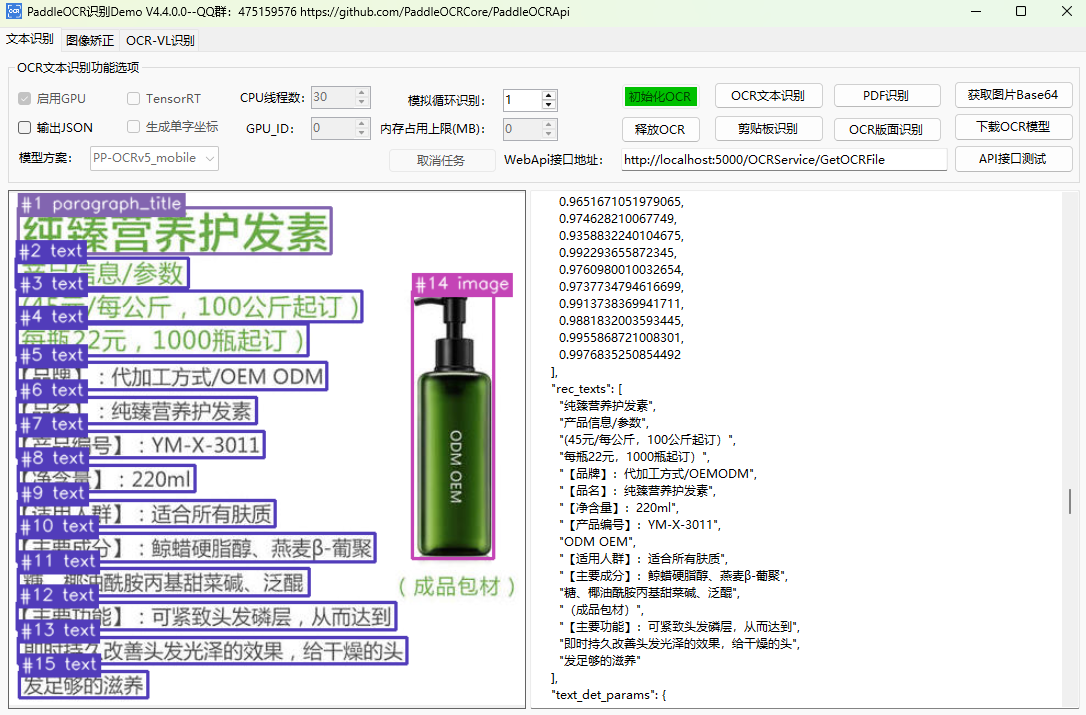
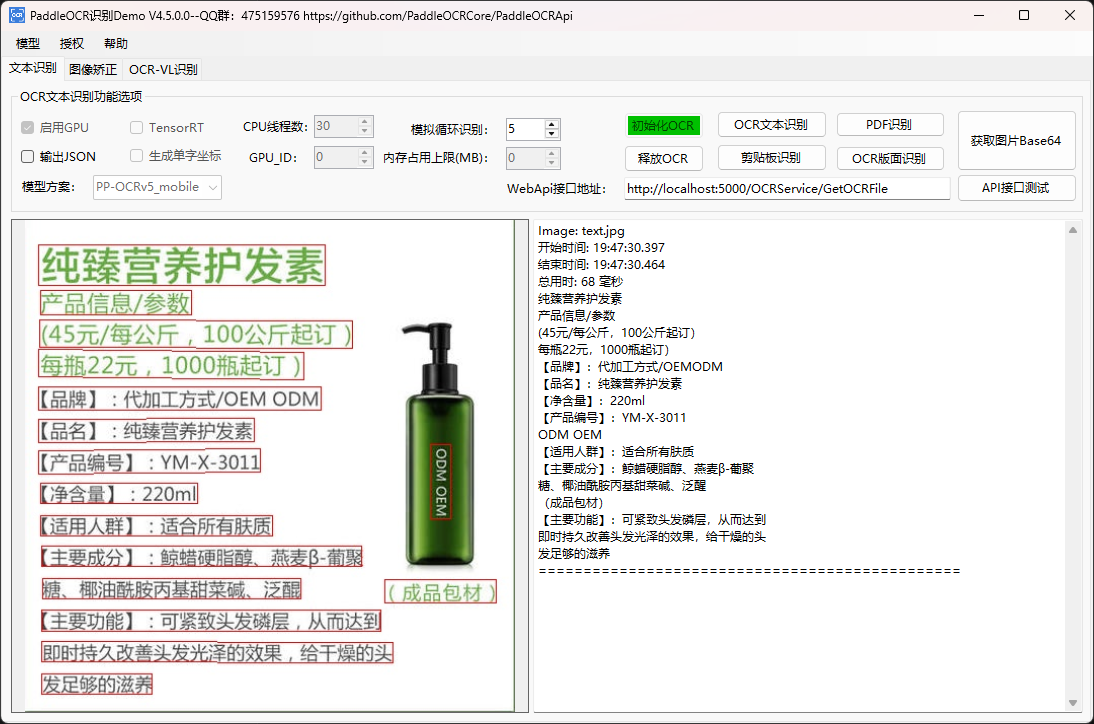
发布4.5版本

diff --git a/Demo/WinFormsApp/MainForm.cs b/Demo/WinFormsApp/MainForm.cs
@@ -901,8 +901,9 @@ namespace WinFormsApp
                 LogMessage(requestCode);
                 LogMessage("===============================================");
                 Clipboard.SetText(requestCode);
-                LogMessage("GPU授权申请码已复制到剪贴板。");
-                LogMessage("申请GPU授权文件paddleocr.lic请放到models目录。");
+                LogMessage("GPU授权申请码已复制到剪贴板");
+                LogMessage("点击菜单【GPU授权】-【免费试用GPU】申请授权文件");
+                LogMessage("授权文件paddleocr.lic请放到models目录，然后再初始化OCR");
             }
             catch (Exception ex)
             {

diff --git a/docs/CHANGELOG.md b/docs/CHANGELOG.md
@@ -1,5 +1,11 @@
 # 📝 更新日志
 
+## v4.5.0 `2026.5.26`
+- ✅ **PaddleOCR.dll**: 优化版面检测及识别，优化模型加载适配，增加GPU授权接口
+- ✅ **llamaocr-vl.dll**: 优化版面检测及识别，优化模型加载适配，增加GPU授权接口
+- ✅ **WinFormsApp**: 增加菜单栏，将部分功能移至菜单，PDF识别改为版面识别接口
+- ✅ **发布NuGet包**: PaddleOCRRuntime_x64 v4.5.0，包含 paddle 3.4.0 CPU 推理库、PaddleOCR.dll、llamaocr-vl.dll 及全部依赖。
+
 ## v4.4.0 `2026.5.11`
 - ✅ **PaddleOCR.dll**: 优化版面分析；优化GPU依赖检测，避免初始化弹窗。
 - ✅ **PaddleOCR.dll**: 公式识别新增支持 PP-FormulaNet 系列模型；新增文档图像版面子模块检测；修复版面子模块识别错误和版面分析结果排序问题。

diff --git a/docs/CHANGELOG_EN.md b/docs/CHANGELOG_EN.md
@@ -1,5 +1,11 @@
 # 📝 Changelog
 
+v4.5.0 2026.5.26
+✅ PaddleOCR.dll: Optimized layout detection and recognition, improved model loading compatibility, and added GPU licensing APIs.
+✅ llamaocr-vl.dll: Optimized layout detection and recognition, improved model loading compatibility, and added GPU licensing APIs.
+✅ WinFormsApp: Added a menu bar, moved some features into the menu, and changed PDF recognition to use the layout recognition API.
+✅ NuGet Package Released: PaddleOCRRuntime_x64 v4.5.0, including Paddle 3.4.0 CPU inference libraries, PaddleOCR.dll, llamaocr-vl.dll, and all dependencies.
+
 ## v4.4.0 `2026.5.11`
 - ✅ **PaddleOCR.dll**: Optimized layout analysis; improved GPU dependency detection to avoid initialization pop-ups.
 - ✅ **PaddleOCR.dll**: Formula recognition now supports PP-FormulaNet series models; added document image layout sub-module detection; fixed layout sub-module recognition errors and layout analysis result sorting issues.